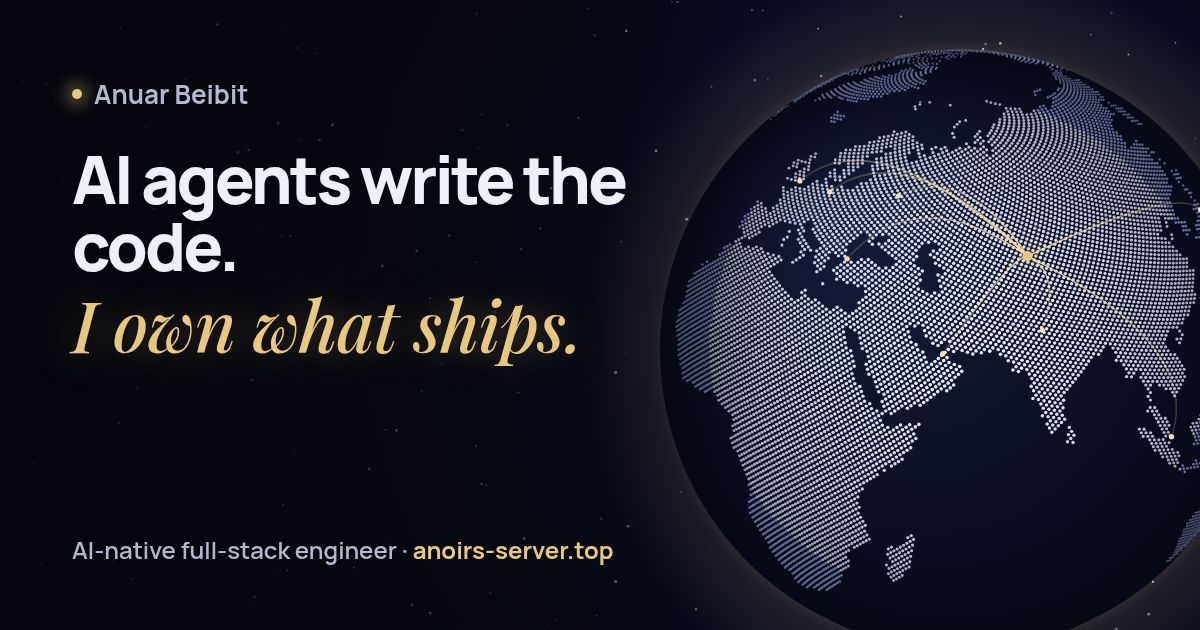
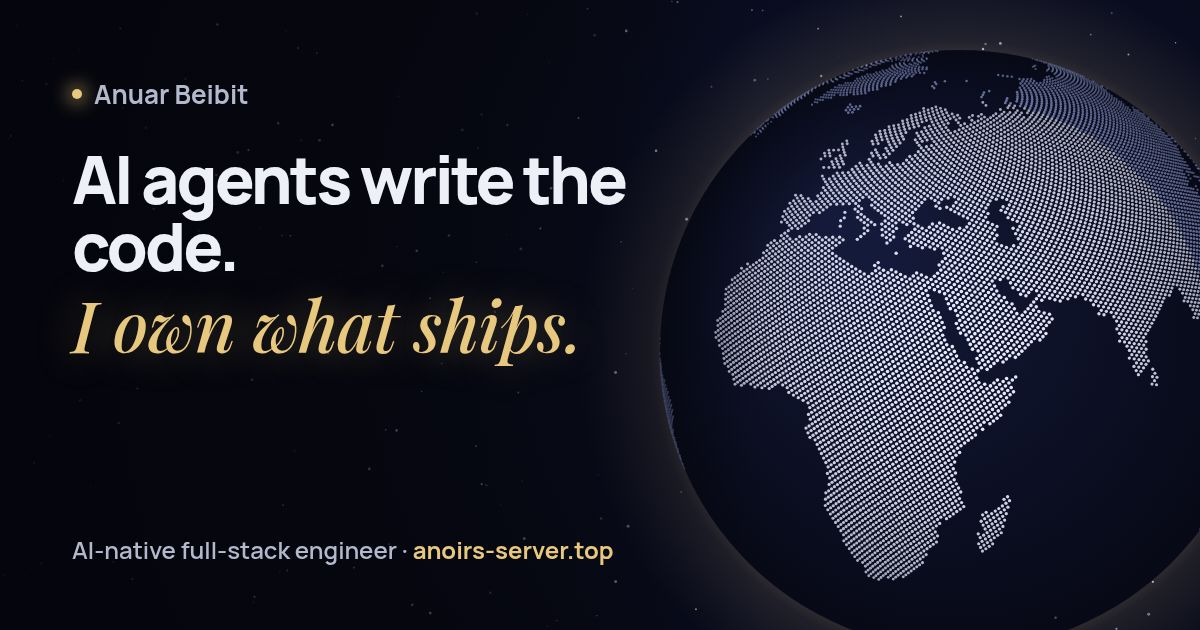
og: location-neutral share images
The owner will change his location from the admin page and the box rebuilds
the site without a browser, so the Open Graph / Twitter images cannot be
regenerated there and must not depend on the location. og-image.js no
longer reads site-config.json: no home marker, no arcs from home, and the
Earth is turned to a fixed Old-World view (the scene poster's view). The
text was already location-free (name, hero line, job title, host); the alt
text says only "a dotted Earth under a starry sky". Regenerated both images.

Changed region(s): [[0.555, 0.0603, 1.0, 0.9349], [0.9558, 0.8143, 1.0, 0.8746], [0.6167, 0.181, 0.6475, 0.2111]]

diff --git a/scripts/og-image.js b/scripts/og-image.js
@@ -6,9 +6,13 @@
  *
  *   node scripts/og-image.js          # needs Chromium; CHROMIUM=/path/to/chrome to override
  *
- * The text comes from the locale dictionaries and the globe faces the home
- * location from src/lib/config/site-config.json, so re-run it after changing
- * either. No npm dependencies: the page is rendered by headless Chromium.
+ * Location-neutral on purpose: no city or country in the text, no home marker, arcs or
+ * country highlight, and the Earth turned to a fixed view (the Old World, as the scene's
+ * poster). The owner can move his location in the admin and the box rebuilds the site
+ * without a browser, so nothing here may depend on src/lib/config/site-config.json.
+ *
+ * The text comes from the locale dictionaries (name, hero line, job title): re-run after
+ * changing those. No npm dependencies: the page is rendered by headless Chromium.
  */
 import { execFileSync } from 'node:child_process';
 import { mkdirSync, mkdtempSync, readFileSync, rmSync, writeFileSync } from 'node:fs';
@@ -37,7 +41,8 @@ for (let i = 0; i < SPIRAL; i++) {
 	const lon = ((((i * GOLDEN * 180) / Math.PI) % 360) + 360) % 360 - 180;
 	if (isLand(mask, lat, lon)) points.push([+lat.toFixed(2), +lon.toFixed(2)]);
 }
-const { home } = json('src/lib/config/site-config.json');
+// the fixed view: centred between Europe, Africa and Asia (POSTER_VIEW in OrbitGlobe.svelte)
+const VIEW = { lat: 28, lon: 58 };
 const font = (file) => `data:font/woff2;base64,${read(`static/fonts/${file}`).toString('base64')}`;
 
 // "AI-агенты" must not break at its hyphen
@@ -87,7 +92,7 @@ for (let i = 0; i < 260; i++) {
 }
 ctx.globalAlpha = 1;
 const cx = 960, cy = 350, R = 300, rad = Math.PI / 180;
-const lat0 = ${home.lat} * rad * 0.6, lon0 = (${home.lon} - 18) * rad;
+const lat0 = ${VIEW.lat} * rad * 0.6, lon0 = (${VIEW.lon} - 18) * rad;
 const project = (lat, lon) => {
   const p = lat * rad, l = lon * rad - lon0;
   const x = Math.cos(p) * Math.sin(l);
@@ -107,22 +112,6 @@ for (const [lat, lon] of points) {
   ctx.beginPath(); ctx.arc(x, y, 0.9 + z * 0.9, 0, Math.PI * 2); ctx.fill();
 }
 ctx.globalAlpha = 1;
-const [hx, hy, hz] = project(${home.lat}, ${home.lon});
-const arcTo = (lat, lon) => {
-  const [x, y, z] = project(lat, lon); if (z <= 0.05 || hz <= 0.05) return;
-  const mx = (hx + x) / 2, my = (hy + y) / 2, lift = Math.hypot(x - hx, y - hy) * 0.45;
-  const nx = (mx - cx), ny = (my - cy), n = Math.hypot(nx, ny) || 1;
-  const grad = ctx.createLinearGradient(hx, hy, x, y);
-  grad.addColorStop(0, 'rgba(246,223,168,0.95)'); grad.addColorStop(1, 'rgba(246,223,168,0.15)');
-  ctx.strokeStyle = grad; ctx.lineWidth = 1.6; ctx.beginPath(); ctx.moveTo(hx, hy);
-  ctx.quadraticCurveTo(mx + (nx / n) * lift, my + (ny / n) * lift, x, y); ctx.stroke();
-  ctx.fillStyle = '#f6dfa8'; ctx.beginPath(); ctx.arc(x, y, 2.6, 0, Math.PI * 2); ctx.fill();
-};
-[[51.5, -0.1], [52.5, 13.4], [41.0, 29.0], [25.2, 55.3], [1.35, 103.8], [35.7, 139.7], [28.6, 77.2], [55.75, 37.6]].forEach(([a, b]) => arcTo(a, b));
-if (hz > 0) {
-  ctx.shadowColor = 'rgba(232,199,126,0.9)'; ctx.shadowBlur = 18; ctx.fillStyle = '#e8c77e';
-  ctx.beginPath(); ctx.arc(hx, hy, 5, 0, Math.PI * 2); ctx.fill(); ctx.shadowBlur = 0;
-}
 const shade = ctx.createLinearGradient(0, 0, 760, 0);
 shade.addColorStop(0, 'rgba(5,6,13,0.92)'); shade.addColorStop(0.75, 'rgba(5,6,13,0.55)'); shade.addColorStop(1, 'rgba(5,6,13,0)');
 ctx.fillStyle = shade; ctx.fillRect(0, 0, 760, ${HEIGHT});
